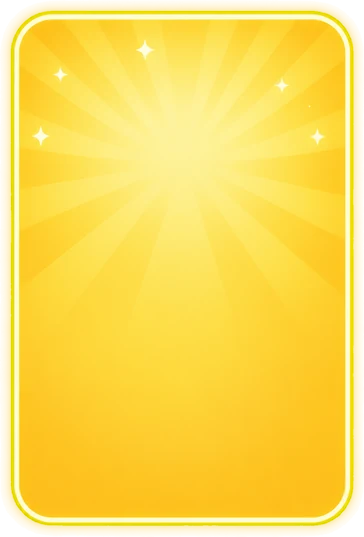
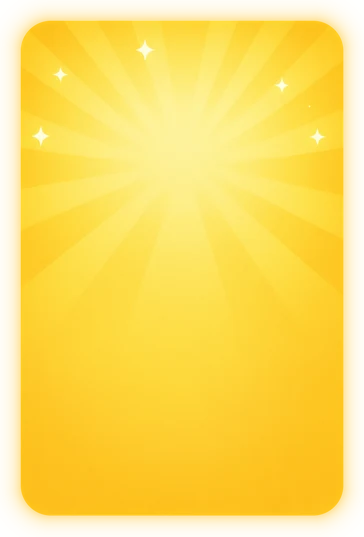
Popup: amarelo sem aro, com o canto do roxo; deitado com chão de lado a lado, herói grande acima do texto e amigos sem borda reta (BUG-20261026-ORQ-popup-trico-ajustes)
Deitado, o 'Jogar sozinho' usa uma arte larga própria (<picture> com media); o chão foi estendido para os lados
como degradê do próprio fundo e o recorte põe o herói entre 2 % e 55 % da altura do bloco.

Changed region(s): [[0.0, 0.0, 0.9973, 1.0]]

diff --git a/src/client/ui/escolha.css b/src/client/ui/escolha.css
@@ -23,9 +23,10 @@
 #confirmation.escolha-arte #chosen-class{color:color-mix(in srgb,var(--c-papel-claro) 80%,var(--c-lilas))}
 #confirmation.escolha-arte .chosen-actions{display:grid;grid-template-columns:1fr 1fr;gap:10px;align-items:stretch}
 #confirmation.escolha-arte :is(#enter-coop,.solo-row){border:0;border-radius:0;box-shadow:none;background:none;border-image:var(--bloco) var(--bloco-corte) fill / var(--bloco-borda) stretch;min-width:0}
-#confirmation.escolha-arte #enter-coop{--bloco:url('/art/menu/escolha/bloco-amigos.webp');--bloco-corte:36;--bloco-borda:30px;border-image-outset:9px;display:flex;flex-direction:column;align-items:stretch;width:100%;margin:0;padding:8px 8px 10px;white-space:normal;color:var(--c-breu)}
+#confirmation.escolha-arte #enter-coop{--bloco:url('/art/menu/escolha/bloco-amigos.webp');--bloco-corte:55;--bloco-borda:28px;border-image-outset:11px;display:flex;flex-direction:column;align-items:stretch;width:100%;margin:0;padding:8px 8px 10px;white-space:normal;color:var(--c-breu)}
 #confirmation.escolha-arte .solo-row{--bloco:url('/art/menu/escolha/bloco-sozinho.webp');--bloco-corte:34 34 76 34;--bloco-borda:17px 17px 38px 17px;display:flex;flex-direction:column;gap:6px;padding:8px 8px 10px}
 #confirmation.escolha-arte #enter-island{display:flex;flex:1;flex-direction:column;align-items:stretch;width:100%;margin:0;padding:0;border:0;background:none;white-space:normal;color:var(--c-papel-claro)}
+#confirmation.escolha-arte .escolha-foto{display:contents}
 #confirmation.escolha-arte .escolha-img{display:block;flex:1 1 var(--escolha-img-h);width:100%;min-height:0;height:var(--escolha-img-h);object-fit:contain;object-position:50% 100%}
 /* Sozinho (traço da ref. 7): a arte cobre o bloco todo; o chão lavanda vai até a base, atrás do texto e dos bots, sem esmaecer. */
 #confirmation.escolha-arte .solo-row{position:relative}
@@ -50,9 +51,11 @@
   #confirmation.escolha-arte .chosen-actions{margin-top:8px}
   #confirmation.escolha-arte .chosen-card .class-art{width:clamp(110px,38dvh,150px);height:clamp(110px,38dvh,150px);margin:calc(-.55 * clamp(110px,38dvh,150px)) 0 -8px -6px}
   #confirmation.escolha-arte #back-to-menu{min-height:30px;padding:4px 12px}
-  /* Bloco largo e baixo: a arte inteira, centrada, acima do texto e dos bots (o rosto nunca fica atrás do texto). */
-  #confirmation.escolha-arte #enter-island .escolha-img{left:50%;width:auto;height:calc(100% - 58px);aspect-ratio:1;transform:translateX(-50%);object-fit:cover;object-position:50% 0;-webkit-mask-image:linear-gradient(90deg,transparent,var(--c-breu) 20%,var(--c-breu) 80%,transparent);mask-image:linear-gradient(90deg,transparent,var(--c-breu) 20%,var(--c-breu) 80%,transparent)}
+  /* Bloco largo e baixo: a arte larga cobre o bloco (chão de lado a lado); o herói enche a altura acima do texto. */
+  #confirmation.escolha-arte #enter-island .escolha-img{object-fit:cover;object-position:50% 0}
   #confirmation.escolha-arte .escolha-rotulo{font-size:var(--t-16)}
   /* Bloco amarelo largo: o grupo inteiro (ampliar cortaria metade dele). */
-  #confirmation.escolha-arte #enter-coop .escolha-img{width:100%;margin:0 0 -10px;object-fit:contain;object-position:50% 100%;clip-path:none}
+  #confirmation.escolha-arte #enter-coop .escolha-img{width:100%;margin:0 0 -10px;object-fit:contain;object-position:50% 100%;clip-path:none;
+    -webkit-mask-image:linear-gradient(90deg,transparent 22%,var(--c-breu) 34%,var(--c-breu) 66%,transparent 78%),linear-gradient(var(--c-breu) 70%,transparent 96%);-webkit-mask-composite:source-in;
+    mask-image:linear-gradient(90deg,transparent 22%,var(--c-breu) 34%,var(--c-breu) 66%,transparent 78%),linear-gradient(var(--c-breu) 70%,transparent 96%);mask-composite:intersect}
 }

diff --git a/src/client/ui/escolha-popup.ts b/src/client/ui/escolha-popup.ts
@@ -6,10 +6,13 @@
  */
 export const ESCOLHA_HEROIS:readonly string[]=['aposentado','clt-cansado','gato-nada-pra-comer','maromba','vendedor-praia','viciado-em-bet'];
 
-export type EscolhaArte={amigos:string;sozinho:string};
+export type EscolhaArte={amigos:string;sozinho:string;sozinhoDeitado:string};
+
+/** Celular deitado (a mesma regra do escolha.css): o bloco do sozinho é largo e usa a arte larga. */
+export const DEITADO='(max-height:520px)';
 
 export const escolhaArte=(classId:string):EscolhaArte|null=>ESCOLHA_HEROIS.includes(classId)
-  ?{amigos:`/art/menu/escolha/${classId}-amigos.webp`,sozinho:`/art/menu/escolha/${classId}-sozinho.webp`}
+  ?{amigos:`/art/menu/escolha/${classId}-amigos.webp`,sozinho:`/art/menu/escolha/${classId}-sozinho.webp`,sozinhoDeitado:`/art/menu/escolha/${classId}-sozinho-deitado.webp`}
   :null;
 
 /** O texto do botão fica num <span>, por cima da imagem; trocar o texto não pode apagar a imagem. */
@@ -21,9 +24,20 @@ export function mostrarEscolha(dialog:HTMLElement,classId:string):void {
   dialog.classList.toggle('escolha-arte',!!arte);
   for(const [id,kind] of [['enter-coop','amigos'],['enter-island','sozinho']] as const){
     const button=dialog.querySelector<HTMLElement>(`#${id}`);if(!button)continue;
-    let img=button.querySelector<HTMLImageElement>('img.escolha-img');
-    if(!arte){img?.remove();continue;}
-    if(!img){img=document.createElement('img');img.className='escolha-img';img.alt='';img.decoding='async';button.prepend(img);}
+    let picture=button.querySelector<HTMLPictureElement>('picture.escolha-foto');
+    if(!arte){picture?.remove();continue;}
+    if(!picture){
+      picture=document.createElement('picture');picture.className='escolha-foto';
+      const img=document.createElement('img');img.className='escolha-img';img.alt='';img.decoding='async';
+      picture.append(img);button.prepend(picture);
+    }
+    // Deitado, o "Jogar sozinho" troca para a arte larga (o chão lavanda vai de lado a lado do bloco).
+    let source=picture.querySelector('source');
+    if(kind==='sozinho'){
+      if(!source){source=document.createElement('source');source.media=DEITADO;picture.prepend(source);}
+      if(source.getAttribute('srcset')!==arte.sozinhoDeitado)source.srcset=arte.sozinhoDeitado;
+    } else source?.remove();
+    const img=picture.querySelector('img')!;
     if(img.getAttribute('src')!==arte[kind])img.src=arte[kind];
   }
 }

diff --git a/tests/client/escolha-popup.test.ts b/tests/client/escolha-popup.test.ts
@@ -11,7 +11,7 @@ test('cada herói com arte tem os 2 botões (amigos feliz, sozinho triste) em we
   for(const id of ESCOLHA_HEROIS){
     assert.ok(ids.has(id),`${id}: não é classe`);
     const arte=escolhaArte(id)!;
-    for(const url of [arte.amigos,arte.sozinho]){
+    for(const url of [arte.amigos,arte.sozinho,arte.sozinhoDeitado]){
       const file=`public${url}`;
       assert.ok(existsSync(file),`${file} falta`);
       assert.ok(statSync(file).size<120_000,`${file}: pesado demais para o popup`);
